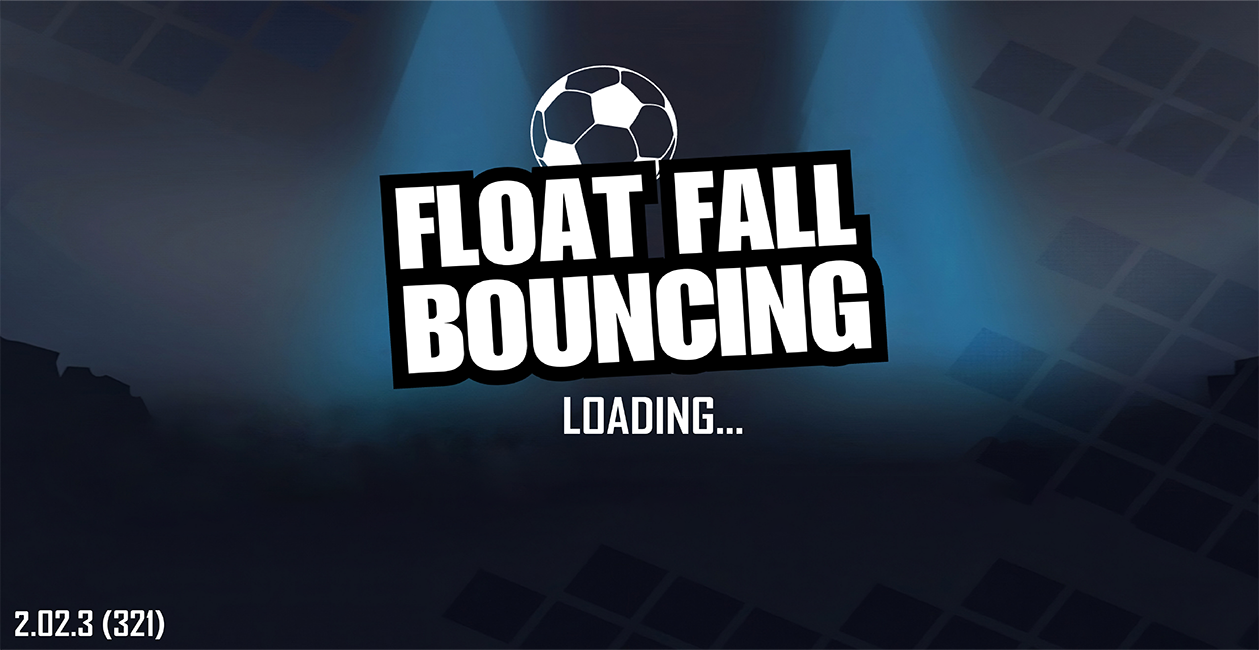
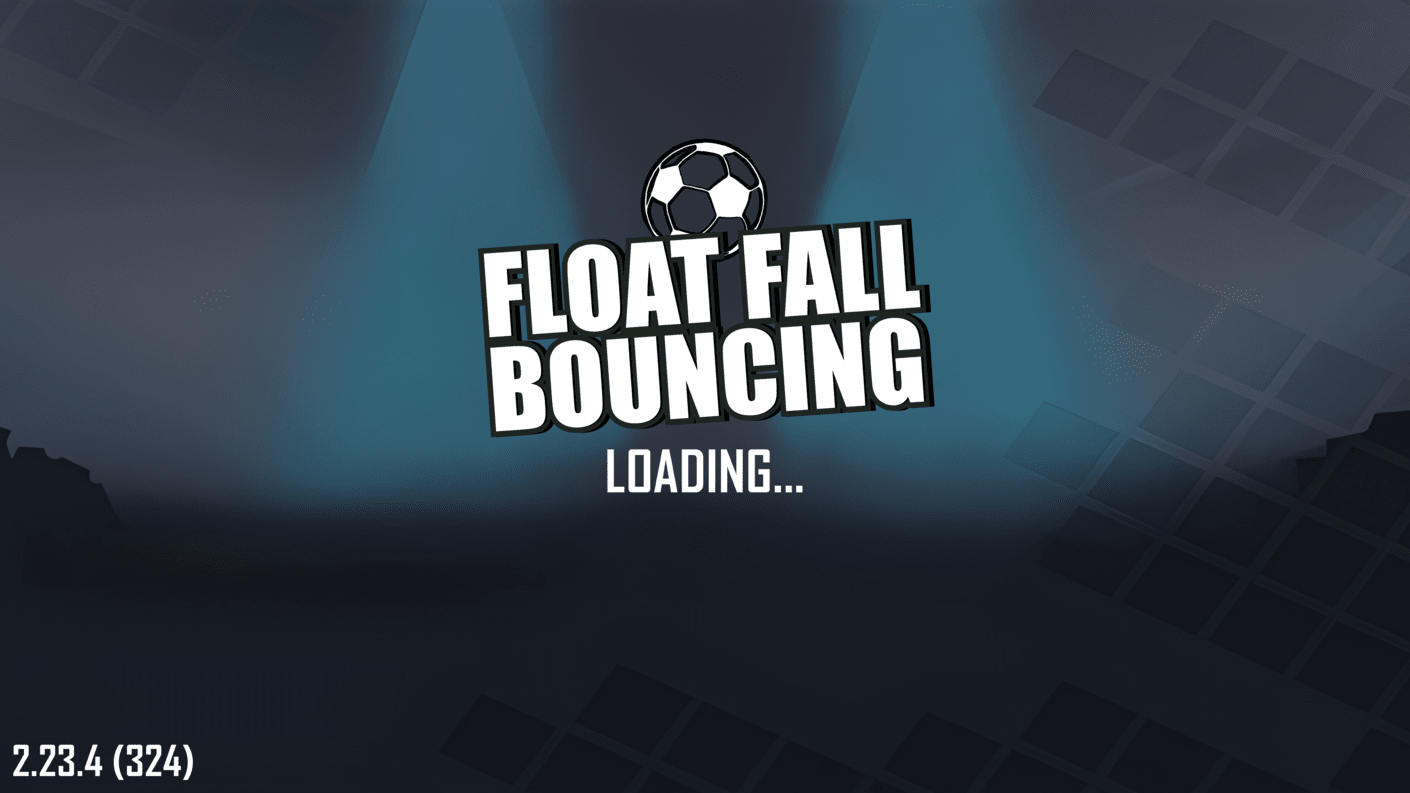
FullScreen Mode

diff --git a/main.py b/main.py
@@ -10,22 +10,21 @@ import menu
 pygame.init()
 
 #Screen Setup
-window_height = 793
-window_width = 1410
-screen = pygame.display.set_mode((window_width, window_height), pygame.RESIZABLE) #Makes a window
+window_height = 1080
+window_width = 1920
+screen = pygame.display.set_mode((window_width, window_height), pygame.FULLSCREEN) #Makes a window
 pygame.display.set_caption('Float Fall Bouncing') #Sets the name of the window
 clock = pygame.time.Clock() #To add time delay in game loop
 show_load = True
 
 output = {"Menu": False, "Ball":1}
 #Making required surfaces
-bg_surface = pygame.image.load('graphics/bg/bg.png').convert()
-bg_grd = pygame.image.load('graphics/bg/bground.png').convert_alpha()
+bg_surface = pygame.image.load('graphics/ground/2ground.png').convert()
+# bg_grd = pygame.image.load('graphics/2ground/2ground.png').convert_alpha()
 bg_water = pygame.image.load('graphics/water/water.png').convert()
 bg_moon = pygame.image.load('graphics/moon/moonsky.png').convert()
 bg_moongrd = pygame.image.load('graphics/moon/moongrd.png').convert_alpha()
 midscene = pygame.image.load('graphics/Scenes/enter2.png').convert()
-legend = pygame.image.load(('graphics/Scenes/legends.png')).convert_alpha()
 
 #Ball class to store and control properties of body aka ball
 class Ball:
@@ -35,7 +34,7 @@ class Ball:
         self.x = x
         self.y = y
         self.type = type
-        self.e = 0.7*(1 + (self.type-1)*0.13) #Coefficient of restitution
+        self.e = 0.6*(1 + (self.type-1)*0.15) #Coefficient of restitution
         self.g = g
         self.gNet = g
         self.v_x = 0
@@ -113,12 +112,13 @@ if show_load:
         continue
 
 size = screen.get_size()
+print(size)
 scale = round(size[0]/window_width, 2)
-bottomline = window_height-130*scale #To set the collision point
+bottomline = window_height-235*scale #To set the collision point
 
 if size[0]!=window_width:
     bg_surface = pygame.transform.scale_by(bg_surface, scale)
-    bg_grd = pygame.transform.scale_by(bg_grd, scale)
+    # bg_grd = pygame.transform.scale_by(bg_grd, scale)
     bg_water = pygame.transform.scale_by(bg_water, scale)
     bg_moon = pygame.transform.scale_by(bg_moon, scale)
     bg_moongrd = pygame.transform.scale_by(bg_moongrd, scale)
@@ -127,7 +127,7 @@ if size[0]!=window_width:
         i.replot_x(scale)
     window_height = size[1]
     window_width = size[0]
-    screen = pygame.display.set_mode(size, pygame.RESIZABLE)
+    screen = pygame.display.set_mode(size, pygame.FULLSCREEN)
 
 #Main loop
 while True:
@@ -152,16 +152,15 @@ while True:
             window_height = event.h
             window_width = event.w
             screen = pygame.display.set_mode((window_width, window_height), pygame.RESIZABLE)
-            bg_surface = pygame.image.load('graphics/bg/bg.png').convert()
-            bg_grd = pygame.image.load('graphics/bg/bground.png').convert_alpha()
+            bg_surface = pygame.image.load('graphics/ground/2ground.png').convert()
+            # bg_grd = pygame.image.load('graphics/bg/b2ground.png').convert_alpha()
             bg_water = pygame.image.load('graphics/water/water.png').convert()
             bg_moon = pygame.image.load('graphics/moon/moonsky.png').convert()
             bg_moongrd = pygame.image.load('graphics/moon/moongrd.png').convert_alpha()
             midscene = pygame.image.load('graphics/Scenes/enter2.png').convert()
-            legend = pygame.image.load(('graphics/Scenes/legends.png')).convert_alpha()
             print(scale)
             bg_surface = pygame.transform.scale_by(bg_surface, scale)
-            bg_grd = pygame.transform.scale_by(bg_grd, scale)
+            # bg_grd = pygame.transform.scale_by(bg_grd, scale)
             bg_water = pygame.transform.scale_by(bg_water, scale)
             bg_moon = pygame.transform.scale_by(bg_moon, scale)
             bg_moongrd = pygame.transform.scale_by(bg_moongrd, scale)
@@ -170,7 +169,7 @@ while True:
         elif event.type == pygame.KEYDOWN:
              #Changing the y velocity of ball when Space key is pressed
              for i in Ball.balls:
-                if event.key == pygame.K_SPACE and abs(i.v_y)<5 and (i.ball_rect.bottom > window_height-round(135*scale) and back == 0):
+                if event.key == pygame.K_SPACE and abs(i.v_y)<5 and (i.ball_rect.bottom > window_height-round(245*scale) and back == 0):
                     i.v_y = -random.randint(15, 34)
                 if event.key == pygame.K_SPACE and (abs(i.v_y)<=1 and back == 1):
                     i.v_y = -random.randint(6, 10)
@@ -286,14 +285,12 @@ while True:
                 bottomline = window_height
             elif back == 0:
                 screen.blit(bg_surface, (0,0))
-                screen.blit(bg_grd, (0, 0))
-                bottomline = window_height- round(130*scale)
+                # screen.blit(bg_grd, (0, 0))
+                bottomline = window_height- round(235*scale)
             elif back == 2:
                 screen.blit(bg_moon, (0,0))
                 screen.blit(bg_moongrd, (0,0))
                 bottomline = window_height-round(155*scale)
-
-            screen.blit(legend, (window_width-150, 0)) #To add legends on screen
 
         #Basic Physics and mechanics
         for i in Ball.balls:

diff --git a/loadScreen.py b/loadScreen.py
@@ -29,7 +29,7 @@ def load_screen(screen):
     global window_height
     global window_width
     global resize
-    surface  = pygame.image.load('graphics/Scenes/lo1.png').convert()
+    surface  = pygame.image.load('graphics/Scenes/2lo1.png').convert()
         
     if resize[0] == True:
             surface= pygame.transform.scale_by(surface, resize[1]/resize[2])
@@ -51,7 +51,7 @@ def load_screen(screen):
 
     return False
 
-bar = pygame.image.load('graphics/Scenes/lobar.png').convert_alpha()
+bar = pygame.image.load('graphics/Scenes/2lobar.png').convert_alpha()
 barRect = bar.get_rect(topright = (0,0))
 def loading(screen):
     """
@@ -65,9 +65,9 @@ def loading(screen):
     """
     global window_width
     global loader
-    bar = pygame.image.load('graphics/Scenes/lobar.png').convert_alpha()
-    surface  = pygame.image.load('graphics/Scenes/lo1.png').convert()
-    surface2  = pygame.image.load('graphics/Scenes/lo2.png').convert_alpha()
+    bar = pygame.image.load('graphics/Scenes/2lobar.png').convert_alpha()
+    surface  = pygame.image.load('graphics/Scenes/2lo1.png').convert()
+    surface2  = pygame.image.load('graphics/Scenes/2lo2.png').convert_alpha()
     if resize[0] == True:
         surface  = pygame.transform.scale_by(surface, resize[1]/resize[2])
         surface2 = pygame.transform.scale_by(surface2, resize[1]/resize[2])
@@ -82,10 +82,10 @@ def loading(screen):
     elif barRect.right>126:
         loader[4]=loader[0]
     else:
-        loader[4] = 200
+        loader[4] = 10
 
-    if barRect.right<=1259:
-        barRect.right += 0.5*loader[4]
+    if barRect.right<=1920:
+        barRect.right += loader[4]*3
     else:
         return False
 
@@ -100,9 +100,9 @@ def loading(screen):
             window_width = event.w
             resize[0] = not resize[0]
 
-    screen.blit(surface, (0,0))
+    # screen.blit(surface, (0,0))
     screen.blit(bar, barRect.topleft)
     screen.blit(surface2, (0,0))
     pygame.display.update()
-    clock.tick(20)
+    # clock.tick(20)
     return True
